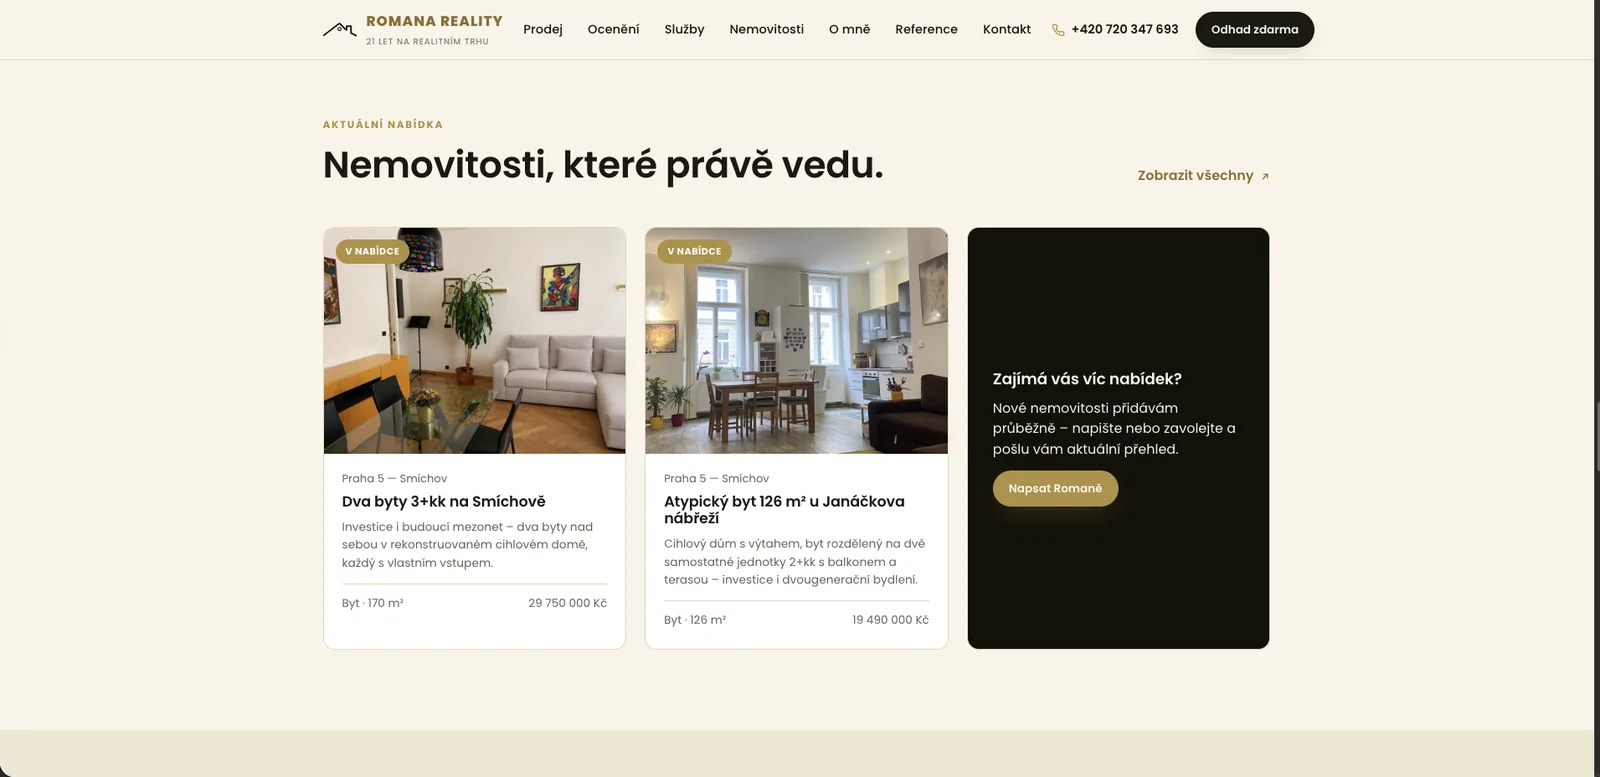
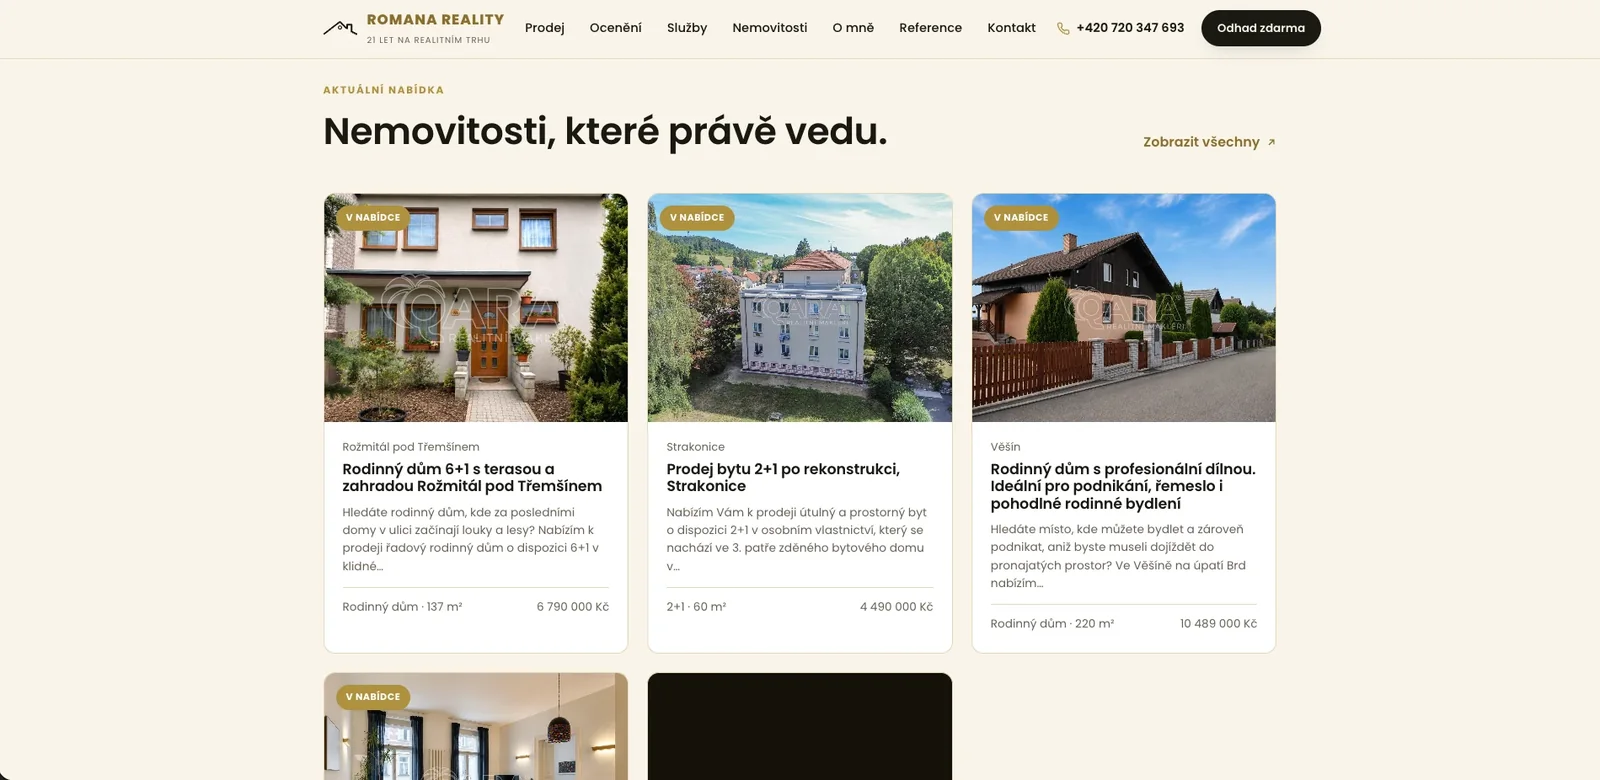
Mention the Urbium sync and update the listings screenshot (#9)
The case study's solution text now covers the Urbium integration:
Romana adds a new property there only, and the site's listings update
automatically, with no manual re-entry on two places. Also swaps in the
latest "Nemovitosti" gallery screenshot supplied for the project.

Claude-Session: https://claude.ai/code/session_01H86X3h7oTtcToEn6W45wg4

diff --git a/lib/data/projects.ts b/lib/data/projects.ts
@@ -46,7 +46,7 @@ export const projects: Project[] = [
     challenge:
       "Klientka potřebovala vlastní profesionální web místo spoléhání se na realitní portály — místo, které bude reprezentovat její osobní značku a bude prvním kontaktním bodem pro nové klienty.",
     solution:
-      "Navrhl a vytvořil jsem web postavený kolem důvěry a přehlednosti: jasná prezentace makléřky s reálnými referencemi, srozumitelný přehled aktuálně nabízených nemovitostí, přehledný osmikrokový popis průběhu prodeje a jednoduchá cesta ke kontaktu — od telefonu a e-mailu až po online odhad ceny nemovitosti.",
+      "Navrhl a vytvořil jsem web postavený kolem důvěry a přehlednosti: jasná prezentace makléřky s reálnými referencemi, srozumitelný přehled aktuálně nabízených nemovitostí, přehledný osmikrokový popis průběhu prodeje a jednoduchá cesta ke kontaktu — od telefonu a e-mailu až po online odhad ceny nemovitosti. Nabídku nemovitostí jsem napojil na realitní systém Urbium — klientka novou nemovitost přidá jen tam a na webu se nabídka sama aktualizuje, bez ručního přepisování na dvou místech.",
     image: "/projects/realitni-makelka/hero.webp",
     gallery: [
       { src: "/projects/realitni-makelka/sluzby.webp", alt: "Přehled služeb — co klient právě řeší", device: "desktop" },
